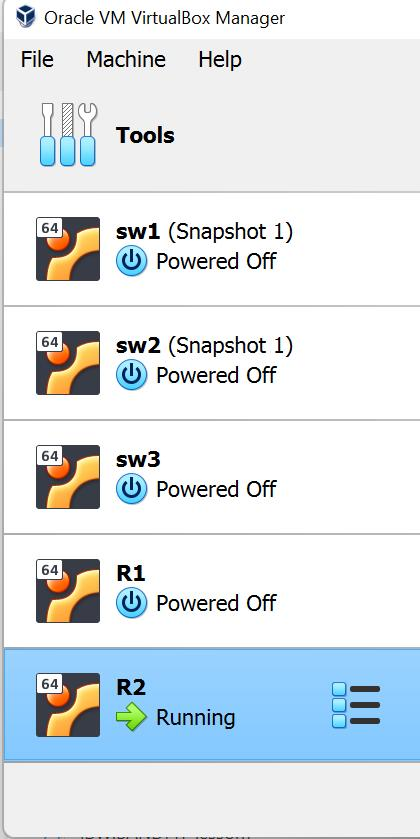
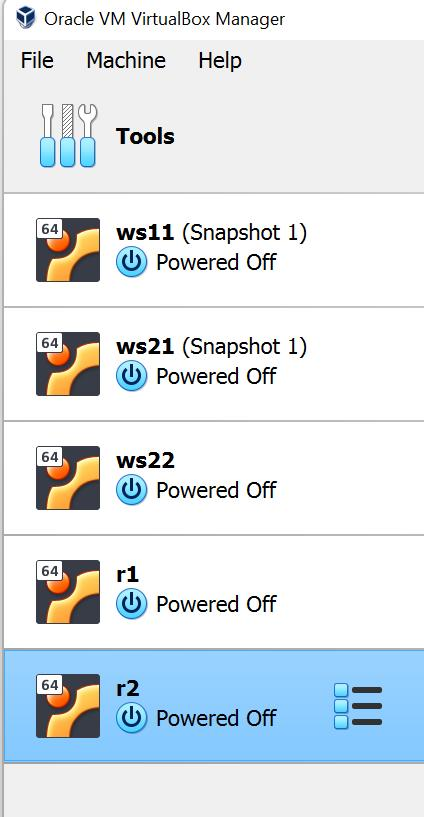
edded names of hosts

diff --git a/Linux/Linux 02.md b/Linux/Linux 02.md
@@ -149,7 +149,7 @@
 
 ### 3.2. Утилита **iperf3**
 
-Измерь скорость соединения между ws1 и ws2.
+Измерь скорость соединения между sw1 и sw2.
 
 **Устанавливаем утилиту iperf3**
 sudo apt install iperf3
@@ -174,13 +174,13 @@ ws2 выступает в роли клиента iperf3 -c 192.168.100.10
 
 (Ссылки на материалы по iptables [тут](https://www.opennet.ru/man.shtml?topic=iptables&category=8&russian=0) и [тут](https://losst.pro/nastrojka-iptables-dlya-chajnikov))
 
-**Создаем файл /etc/firewall.sh, имитирующий фаерволл, на ws1 и ws2**
+**Создаем файл /etc/firewall.sh, имитирующий фаерволл, на sw1 и sw2**
 
 ![21.png](img/21.png)
 
 ![22.png](img/22.png)
 
-- на ws1 написать сначала запрещающее, а потом разрешающее правило на пинг
+- на sw1 написать сначала запрещающее, а потом разрешающее правило на пинг
     
 Запрещающее правило:
     
@@ -191,11 +191,11 @@ ws2 выступает в роли клиента iperf3 -c 192.168.100.10
     `iptables -A OUTPUT -p icmp --icmp-type echo-reply -j ACCEPT`
 - Проверка, что правила добавлены (sudo iptables -L --line-numbers)
 ![23.png](img/23.png)
-- Запустим ping c ws2, увидим, что ws1 перестала пинговаться
+- Запустим ping c sw2, увидим, что sw1 перестала пинговаться
 ![24-1.png](img/24-1.png)
-- Запустим ping c ws1 на ws2, увидим что пингуется
+- Запустим ping c sw1 на sw2, увидим что пингуется
 ![24-11.png](img/24-11.png)
-- обратную последовательность команд добавим для ws2 (в начале пишется разрешающее правило, а в конце пишется запрещающее правило)
+- обратную последовательность команд добавим для sw2 (в начале пишется разрешающее правило, а в конце пишется запрещающее правило)
 ![23.png](img/23-1.png)
     
     Разрешающее правило:
@@ -229,9 +229,9 @@ ws2 выступает в роли клиента iperf3 -c 192.168.100.10
 ### 4.2. Утилита **nmap**
 
 Устанавливаем утилиту `sudo apt install nmap` .
-Пингуем ws2 - ws1, видим, что отклика нет, после вызываем `nmap 192.168.100.10` и видим, что хост машины запущен.
+Пингуем sw2 - sw1, видим, что отклика нет, после вызываем `nmap 192.168.100.10` и видим, что хост машины запущен.
 
-ws-2
+sw-2
 
 ![29.png](img/29.png)
 Host is up
@@ -261,22 +261,22 @@ Host is up
 
 На картинке с заданием мы видим два интерфейса: eth0 и eth1. Им в нашем случае будут соответствовать интерфейсы enp0s8 (от адаптера 2) и enp0s9 (от адаптера 3).
 ![map1.png](img/map1.jpg)
-!!!!! При поднятии машин обратить внимание, что у роутера r2 на картинке с заданием  интерфейс eth1 (то бишь enp0s9) метчится с машинами ws21 и ws22 через интерфейс eth0 (то бишь enp0s8) .
+!!!!! При поднятии машин обратить внимание, что у роутера r2 на картинке с заданием  интерфейс eth1 (то есть enp0s9) метчится с машинами ws21 и ws22 через интерфейс eth0 (то есть enp0s8) .
 Поэтому, так как интерфейс enp0s9 соответствует адаптеру 3, а интерфейс enp0s8 соответствует адаптеру 2, то делаем вывод, что общая сеть для машин ws21, ws22 и r2 должна подключаться у r2 через адаптер 3, а у машин через адаптер 2.
 
 
 5.1. Настройка адресов машин
 - В отчёт помести скрины с содержанием файла *etc/netplan/00-installer-config.yaml* для каждой машины.
 
-sw1
+ws11
 
 ![32.png](img/32.png)
 
-sw2
+sws21
 
 ![33.png](img/33.png)
 
-sw3
+ws22
 
 ![34.png](img/34.png)
 
@@ -292,7 +292,7 @@ r2
 
 Командой `ip a` проверяем, что адреса машин заданы верно
 
-sw1
+ws11
 
 ![37.png](img/37.png)
 
